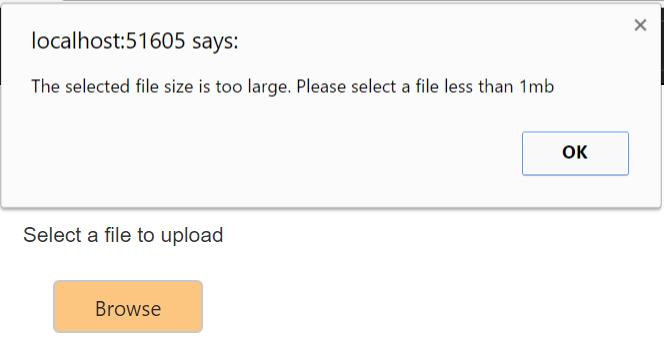
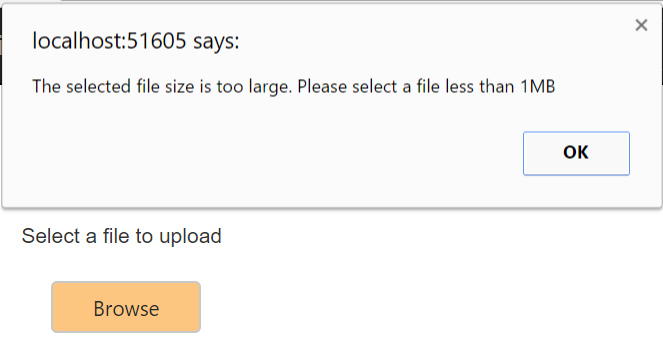
Modified images and content in upload box

diff --git a/aspnetmvc/UploadBox/File-Size.md b/aspnetmvc/UploadBox/File-Size.md
@@ -58,15 +58,7 @@ When you want to browse the file within the fileSize, you can browse and upload 
 
 
 
-When you try to browse the file with exceeded FileSize, we cannot browse and upload the files.
-
-
-
-![](File-Size_images/File-Size_img2.png)
-
-
-
-You can also customize the error message by converting the file size into mb and display the corresponding value in error message.
+When you try to browse the file with exceeded FileSize, an error message will be displayed as an alert.You can customize the error message by converting the file size into mb and display the corresponding value in error message.
 
 
 {% highlight CSHTML %}
@@ -75,7 +67,7 @@ You can also customize the error message by converting the file size into mb and
 
 	  function fileuploaderror(e) 
 	   {
-	     alert("The selected file size is too large. Please select a file less than " + Math.round(e.model.fileSize / (1024 * 1024)) + "mb");
+	     alert("The selected file size is too large. Please select a file less than " + Math.round(e.model.fileSize / (1024 * 1024)) + "MB");
        }
     </script>
 
@@ -85,3 +77,4 @@ Now you will get the error message as shown in the below image
 
 ![](File-Size_images/File-Size_img3.png)
 
+N> By default, UploadBox will display the file size as bytes value in error message.
